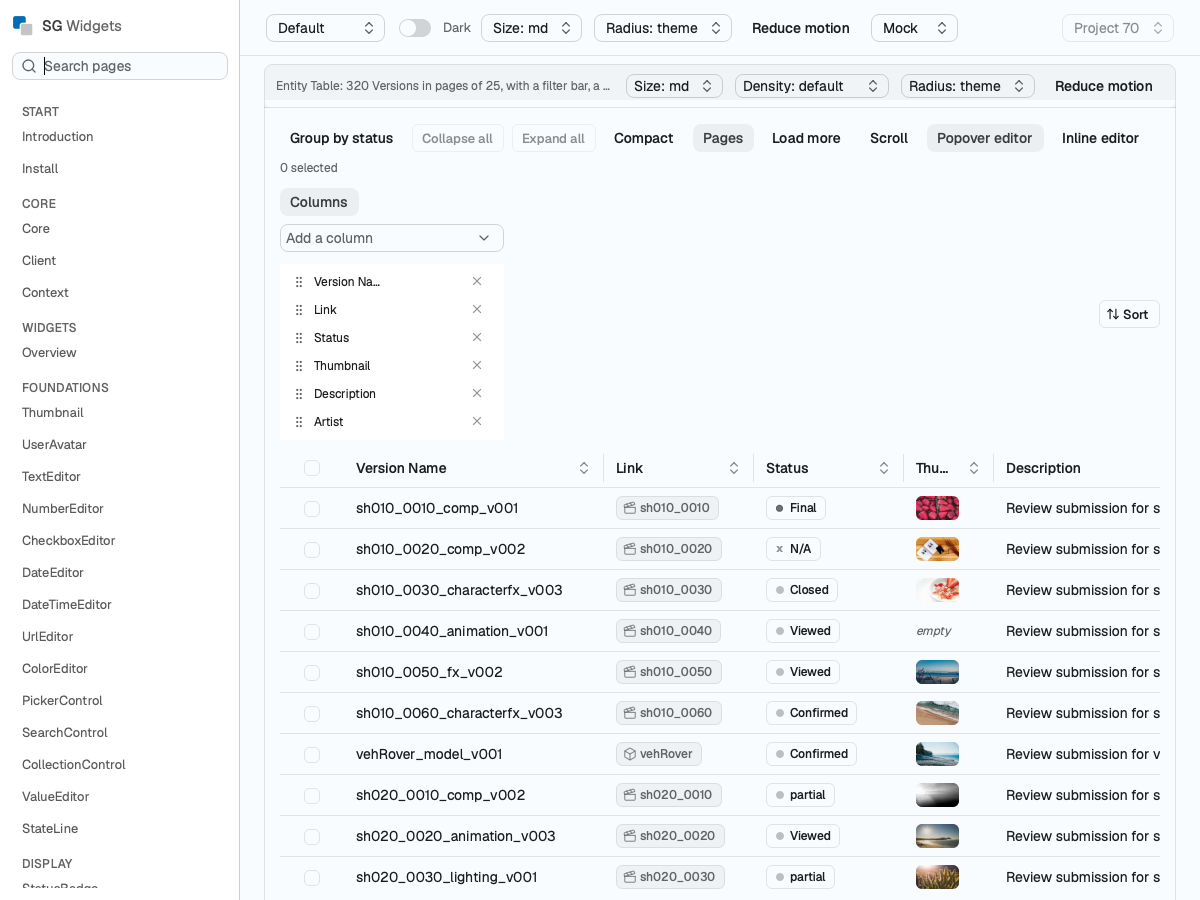
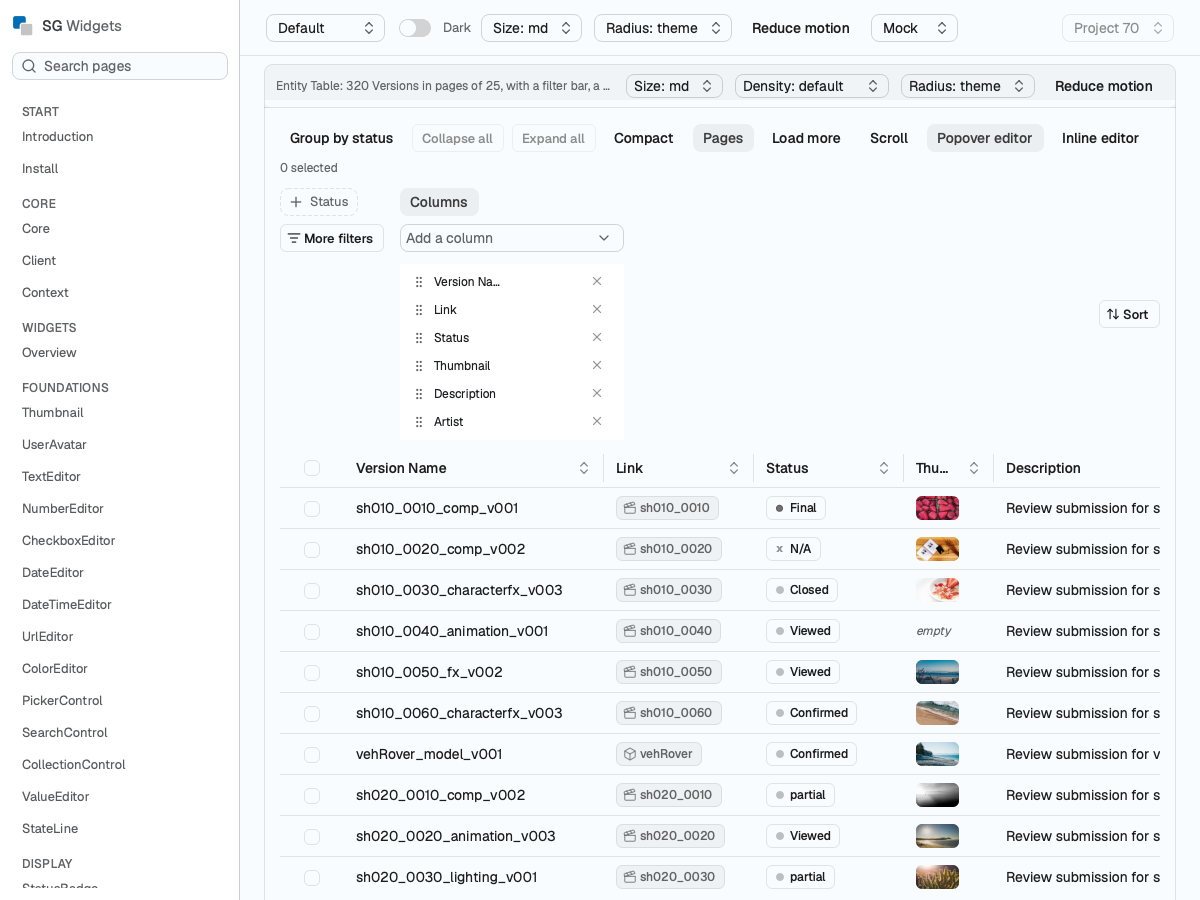
The collections match upstream state by state, and a paging toggle no longer recurses

diff --git a/src/sg_widgets_qt/showcase/demos/entity_table.py b/src/sg_widgets_qt/showcase/demos/entity_table.py
@@ -18,12 +18,13 @@ from sg_widgets_core.collection import (
     resolve_columns,
 )
 from sg_widgets_core.collection_state import collapse_all, expand_all, to_sort_specs
-from sg_widgets_core.filter import condition
+from sg_widgets_core.filter import condition, group
 from sg_widgets_core.mock import MockCounts
 
 from ...images import image_loader
 from ...widgets.column_picker import ColumnPicker
 from ...widgets.entity_table import EntityTable
+from ...widgets.filter_bar import FilterBar
 from ...workers import default_pool
 from .. import chrome
 from ..context import DemoContext, demo_context
@@ -56,6 +57,9 @@ PAGE_SIZE = 25
 #: The column picker's own width, so the toolbar keeps its shape when it opens.
 PICKER_WIDTH = 224
 
+#: The fields the filter bar offers as pills, as upstream's `FACETS` does.
+FACETS = ("sg_status_list",)
+
 
 class EntityTableDemo(QtWidgets.QWidget):
     """The toolbar of toggles, and the table under it."""
@@ -71,6 +75,7 @@ class EntityTableDemo(QtWidgets.QWidget):
             if context.live
             else None
         )
+        self._scope = scope
         self._source = create_entity_source(
             EntitySourceOptions(
                 client=context.client,
@@ -154,8 +159,19 @@ class EntityTableDemo(QtWidgets.QWidget):
         self._picker.value_changed.connect(self._pick_columns)
         columns.addWidget(self._picker)
 
+        # The filter bar is the toolbar's leading control, ahead of the column picker.
+        self._filters = FilterBar(
+            entity_type="Version",
+            context=context,
+            facets=list(FACETS),
+            base_filter=scope,
+            size="sm",
+            parent=self,
+        )
+        self._filters.filters_changed.connect(self._on_filters)
+
         self._sort = _sort_picker(context, self)
-        self.table.set_toolbar_start(self._columns_box)
+        self.table.set_toolbar_start(self._filters, self._columns_box)
         if self._sort is not None:
             self._sort.sort_changed.connect(self._on_sort_keys)
             self.table.set_toolbar_end(self._sort)
@@ -209,6 +225,10 @@ class EntityTableDemo(QtWidgets.QWidget):
 
     # --- the toggles ----------------------------------------------------------------------
 
+    def _on_filters(self, value: object) -> None:
+        """The bar's own group, under the scope the live site needs."""
+        self.table.set_filters(_scoped(self._scope, value))
+
     def _on_group(self, on: bool) -> None:
         self.table.set_group_by("sg_status_list" if on else None)
         self._collapse.setEnabled(on)
@@ -219,6 +239,15 @@ class EntityTableDemo(QtWidgets.QWidget):
 
     def _on_sort_keys(self, keys: object) -> None:
         self.table.set_sort(to_sort_specs(list(keys or [])))
+
+
+def _scoped(scope: Any, value: Any) -> Any:
+    """The bar's filter, with the project scope over it when a live site needs one."""
+    if scope is None:
+        return value
+    if value is None:
+        return scope
+    return group("and", [scope, value])
 
 
 def _radio(

diff --git a/docs/widgets/entity-table.md b/docs/widgets/entity-table.md
@@ -106,6 +106,11 @@ column spec forces it for that column.
 
 ## Column menu
 
+A sortable header says so before anything sorts by it: the up-and-down chevron stands at half
+strength where the sort arrow will, and the arrow replaces it on the column the set is sorted by.
+A header that cannot be sorted carries no mark. The label wears the row's own type step at medium
+weight, so `size` moves the two together.
+
 With `column_menu`, every header carries a menu: sort ascending, sort descending, clear sort and
 hide column. It is off by default: a header sorts on a press, and the column picker in the toolbar
 is where columns are shown and hidden.
@@ -144,7 +149,9 @@ which is emitted on every page forever (006_pagination). The "of N" in the range
 the range reading "n to m" (020_summarize).
 
 Grouping collapses the loaded rows under headers, and the group path leads the source's sort so a
-group is not split across pages. A count is the rows loaded under that header, and a page that
+group is not split across pages. The count follows the heading's value in the same line, a gap
+away, because a heading spans the table and a count at its far edge would read as a column of its
+own. A count is the rows loaded under that header, and a page that
 opens on the value the last header carries grows that group rather than opening a second one.
 
 `collapsed` is a mode with exceptions rather than a list of ids, so Collapse all covers the headers

diff --git a/docs/widgets/entity-grid.md b/docs/widgets/entity-grid.md
@@ -66,13 +66,18 @@ The grid is one tab stop: Tab moves into the tile the cursor is on, and the arro
 
 ::props{name="entity-grid" kind="keyboard"}
 
+One press opens a tile, as Enter does: a wall of pictures is browsed by looking, and a tile is
+opened by the press that reaches it. The selection box keeps a press of its own, so taking a tile
+never opens it.
+
 A disabled row takes no keys and no click: the arrows step over it and the cursor never lands on it.
 
 ## Anatomy
 
 The tile follows the thumbnail view of the Flow PT web app and the asset grid of Frame.io: the
 picture first and at one aspect, the state on the picture rather than under it, one line of name and
-one of metadata, and the controls only while the pointer or the focus is on the tile.
+one of metadata, and the controls only while the pointer or the focus is on the tile. The state is
+the status glyph alone inside its pill, never its name: a long status name would cross the picture.
 
 ## API behaviour
 

diff --git a/docs/widgets/grouped-list.md b/docs/widgets/grouped-list.md
@@ -11,6 +11,7 @@ draws the pagination footer. The list defaults to `more`. A group's count is the
 it, so a boundary a reader can see is worth more here than one that passes under them while they
 read.
 
+A header's count follows its label in the same line, a gap away, so the two read as one heading.
 A page whose first rows carry the value the last header carries grows that group rather than opening
 a second one, and a group shut before the page arrived is still shut after it. A page that fails
 leaves its rows and puts one error line under them with a retry.
